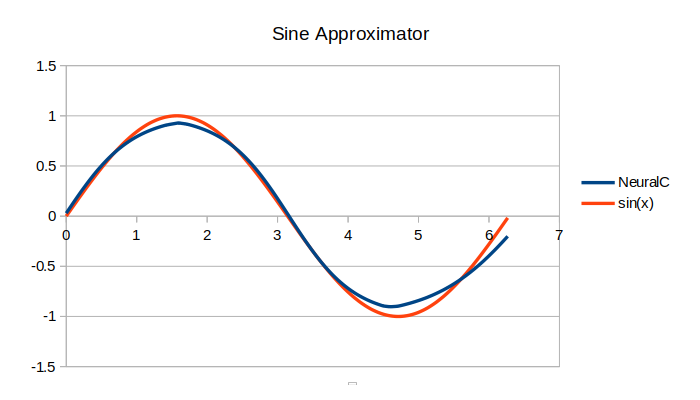
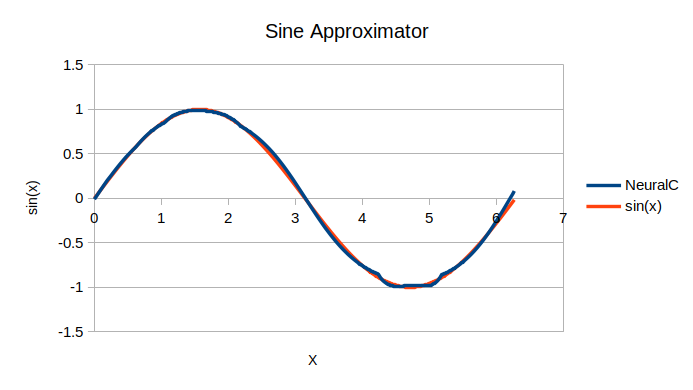
Implement sine approximator example

diff --git a/examples/sine.cpp b/examples/sine.cpp
@@ -1,0 +1,36 @@
+#include <iostream>
+#include <cmath>
+#include "../src/neural.h"
+
+int main() {
+    const double pi = 3.14159265358979323846;
+    const int population_size = 360;
+    
+    std::vector<neural::DataSample> examples;
+    for(int j = 0; j < population_size; j++) {
+        double x = j * pi/180;
+        double y = sin(x);
+        examples.push_back({{x}, {y}});
+    }
+    neural::NetworkParameters params;
+    params.learning_rate = 0.75;
+    params.gradient_clip = 1.0;
+    params.cost_function = neural::quadratic_cost;
+    params.layers = {
+        {1, nullptr},
+        {10, neural::lrelu},
+        {10, neural::lrelu},
+        {10, neural::lrelu},
+        {1, neural::tanh},
+    };
+    neural::Network network(params);
+    int epochs = 10000;
+    for(int i = 0; i < epochs; i++) {
+        network.fit(examples, 12);
+    }
+    for(auto &ex : examples) {
+        neural::Matrix output = network.forward(ex.input);
+        std::cout << ex.input[0] << " " << output.get_at(0, 0) << " " << ex.output[0] << "\n";
+    }
+    return 0;
+}

diff --git a/examples/xor.cpp b/examples/xor.cpp
@@ -28,4 +28,5 @@ int main() {
         }
         output.print();
     }
+    return 0;
 }
